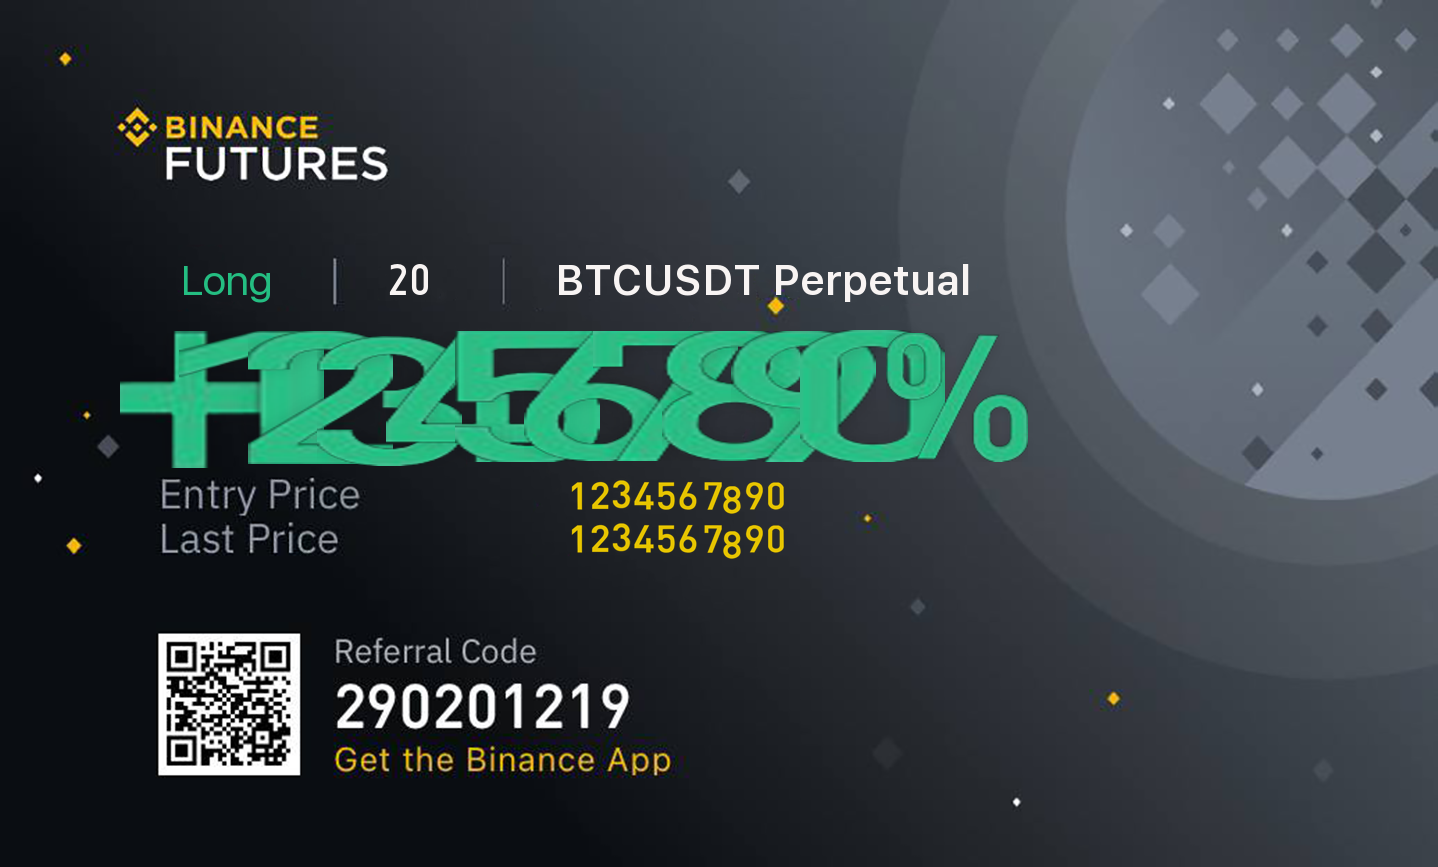
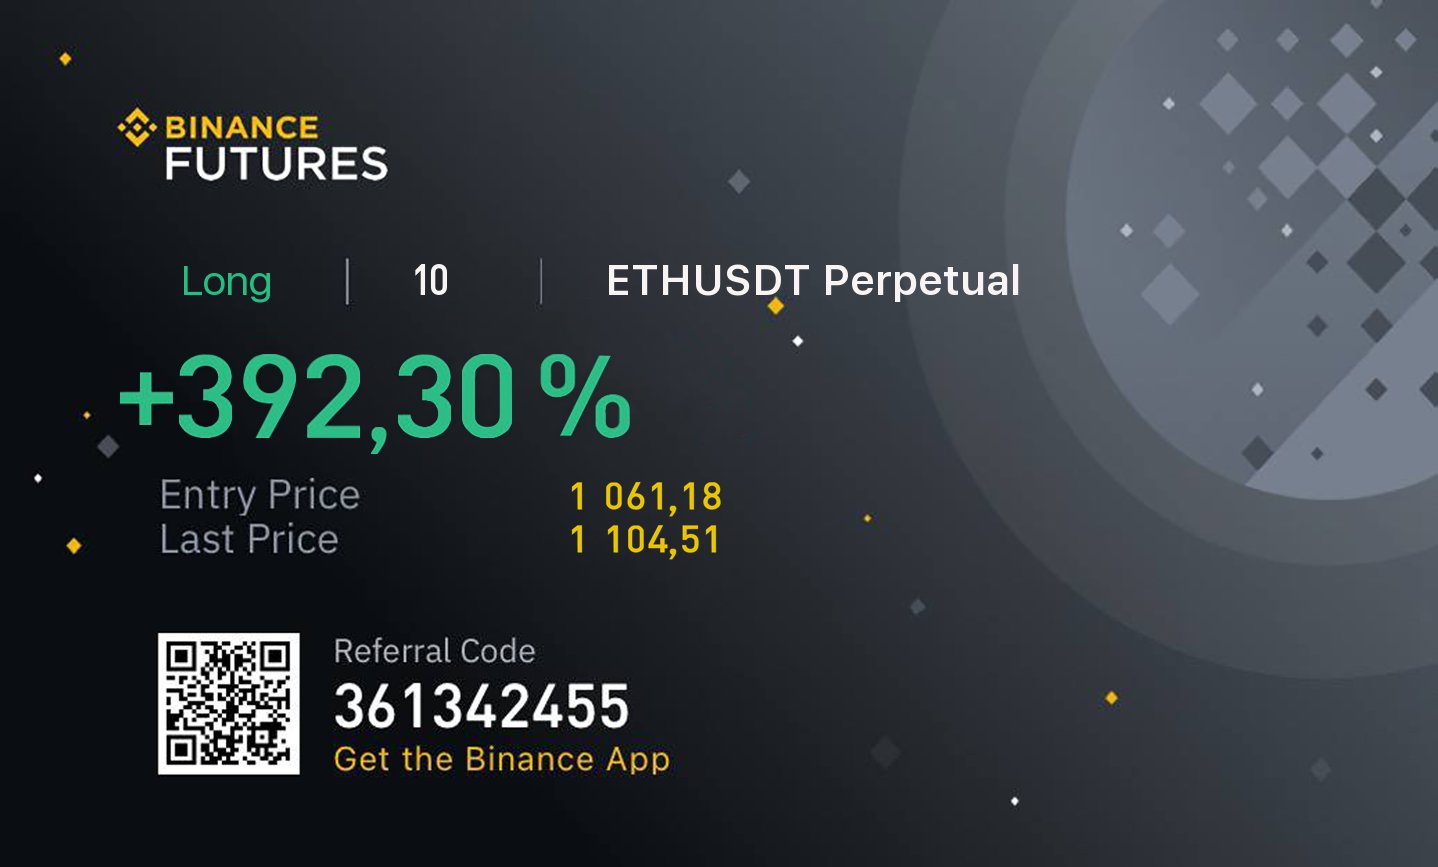
rge

diff --git a/tgbot/misc/generate.py b/tgbot/misc/generate.py
@@ -17,10 +17,10 @@ async def generate(user_data):
     x = user_data['lavarage'].replace("x", "")
     x = user_data['lavarage'].replace("X", "")
     if float(x) >= 100:
-        im = Image.open('tgbot/img/start2.png')
+        im = Image.open('tgbot/img/start.png')
         w = True
     else:
-        im = Image.open('tgbot/img/start1.png')
+        im = Image.open('tgbot/img/start.png')
         w = False
 
     if user_data['way'].lower() == 'long':
@@ -35,9 +35,9 @@ async def generate(user_data):
         lav = lav + 1
 
     if w == False:
-        lav_dist = 387
+        lav_dist = 413
     else:
-        lav_dist = 406
+        lav_dist = 408
 
     currency = user_data['currency'].upper() + ' ' + 'Perpetual'
 
@@ -62,13 +62,13 @@ async def generate(user_data):
     draw_cur = ImageDraw.Draw(im)
     if w == True:
         draw_cur.text(
-            (600, 255),
+            (605, 255),
             currency,
             font=font,
             fill='#f8f4f3')
     else:
         draw_cur.text(
-            (555, 255),
+            (605, 255),
             currency,
             font=font,
             fill='#f8f4f3')
@@ -88,34 +88,64 @@ async def generate(user_data):
     G9 = Image.open('tgbot/img/9.png')
 
     # if w == True:
-    Gper = Gper.resize((142, 129))
-    Gcom = Gcom.resize((145, 131))
-    Gplus = Gplus.resize((145, 137))
-    G0 = G0.resize((145, 132))
-    G1 = G1.resize((145, 130))
-    G2 = G2.resize((145, 133))
-    G3 = G3.resize((145, 130))
-    G4 = G4.resize((145, 131))
-    G5 = G5.resize((145, 131))
-    G6 = G6.resize((145, 130))
-    G7 = G7.resize((145, 130))
-    G8 = G8.resize((145, 130))
-    G9 = G9.resize((145, 131))
-    # else:
-    #     Gper = Gper.resize((150, 130))
-    #     Gcom = Gcom.resize((150, 130))
-    #     Gplus = Gplus.resize((150, 130))
-    #     G0 = G0.resize((150, 130))
-    #     G1 = G1.resize((150, 130))
-    #     G2 = G2.resize((150, 130))
-    #     G3 = G3.resize((150, 130))
-    #     G4 = G4.resize((150, 130))
-    #     G5 = G5.resize((150, 130))
-    #     G6 = G6.resize((150, 130))
-    #     G7 = G7.resize((150, 130))
-    #     G8 = G8.resize((150, 130))
-    #     G9 = G9.resize((150, 130))
+    Gper = Gper.resize((90, 84))
+    Gcom = Gcom.resize((16, 27))
+    Gplus = Gplus.resize((53, 53))
+    G0 = G0.resize((50, 84))
+    G1 = G1.resize((32, 84))
+    G2 = G2.resize((53, 84))
+    G3 = G3.resize((53, 84))
+    G4 = G4.resize((60, 84))
+    G5 = G5.resize((61, 84))
+    G6 = G6.resize((53, 84))
+    G7 = G7.resize((54, 84))
+    G8 = G8.resize((53, 84))
+    G9 = G9.resize((53, 84))
+    
 
+    
+
+    im.paste(Gplus, (120, 372), Gplus)
+    profit_dist = 179
+    for item in user_data['profit']:
+        if item == '0':
+            im.paste(G0, (profit_dist, 354), G0)
+            profit_dist += 61
+        elif item == '1':
+            im.paste(G1, (profit_dist, 354), G1)
+            profit_dist += 42
+        elif item == '2':
+            im.paste(G2, (profit_dist, 354), G2)
+            profit_dist += 64
+        elif item == '3':
+            im.paste(G3, (profit_dist, 354), G3)
+            profit_dist += 64
+        elif item == '4':
+            im.paste(G4, (profit_dist, 354), G4)
+            profit_dist += 71
+        elif item == '5':
+            im.paste(G5, (profit_dist, 354), G5)
+            profit_dist += 72
+        elif item == '6':
+            im.paste(G6, (profit_dist, 354), G6)
+            profit_dist += 64
+        elif item == '7':
+            im.paste(G7, (profit_dist, 354), G7)
+            profit_dist += 65
+        elif item == '8':
+            im.paste(G8, (profit_dist, 354), G8)
+            profit_dist += 64
+        elif item == '9':
+            im.paste(G9, (profit_dist, 354), G9)
+            profit_dist += 64
+        elif item == ',':
+            im.paste(Gcom, (profit_dist, 427), Gcom)
+            profit_dist += 27
+        elif item == ' ':
+            profit_dist += 32
+
+    im.paste(Gper, (profit_dist + 17, 354), Gper)
+    
     Yc = Image.open('tgbot/img/com.png')
     Y0 = Image.open('tgbot/img/00.png')
     Y1 = Image.open('tgbot/img/11.png')
@@ -139,51 +169,11 @@ async def generate(user_data):
     Y8 = Y8.resize((46, 42))
     Y9 = Y9.resize((46, 42))
 
-    im.paste(Gplus, (120, 331), Gplus)
-    profit_dist = 179
-    for item in user_data['profit']:
-        if item == '0':
-            im.paste(G0, (profit_dist, 330), G0)
-            profit_dist += 69
-        elif item == '1':
-            im.paste(G1, (profit_dist, 331), G1)
-            profit_dist += 69
-        elif item == '2':
-            im.paste(G2, (profit_dist, 331), G2)
-            profit_dist += 69
-        elif item == '3':
-            im.paste(G3, (profit_dist, 336), G3)
-            profit_dist += 69
-        elif item == '4':
-            im.paste(G4, (profit_dist, 331), G4)
-            profit_dist += 69
-        elif item == '5':
-            im.paste(G5, (profit_dist, 331), G5)
-            profit_dist += 69
-        elif item == '6':
-            im.paste(G6, (profit_dist, 331), G6)
-            profit_dist += 69
-        elif item == '7':
-            im.paste(G7, (profit_dist, 331), G7)
-            profit_dist += 69
-        elif item == '8':
-            im.paste(G8, (profit_dist, 331), G8)
-            profit_dist += 69
-        elif item == '9':
-            im.paste(G9, (profit_dist, 331), G9)
-            profit_dist += 69
-        elif item == ',':
-            im.paste(Gcom, (profit_dist-15, 376), Gcom)
-            profit_dist += 42
-        elif item == ' ':
-            profit_dist += 32
-
-    im.paste(Gper, (profit_dist + 17, 333), Gper)
-
     if w == True:
         price_dist = 537
     else:
         price_dist = 555
+        
     for item in user_data['fprice']:
         if item == '0':
             im.paste(Y0, (price_dist, 475), Y0)
@@ -195,7 +185,7 @@ async def generate(user_data):
             im.paste(Y2, (price_dist, 475), Y2)
             price_dist += 22
         elif item == '3':
-            im.paste(Y3, (price_dist, 475), Y3)
+            im.paste(Y3, (price_dist, 476), Y3)
             price_dist += 22
         elif item == '4':
             im.paste(Y4, (price_dist, 475), Y4)
@@ -207,10 +197,10 @@ async def generate(user_data):
             im.paste(Y6, (price_dist, 475), Y6)
             price_dist += 22
         elif item == '7':
-            im.paste(Y7, (price_dist, 475), Y7)
+            im.paste(Y7, (price_dist-5, 475), Y7)
             price_dist += 22
         elif item == '8':
-            im.paste(Y8, (price_dist, 479), Y8)
+            im.paste(Y8, (price_dist, 475), Y8)
             price_dist += 22
         elif item == '9':
             im.paste(Y9, (price_dist, 475), Y9)
@@ -236,7 +226,7 @@ async def generate(user_data):
             im.paste(Y2, (price_dist, 518), Y2)
             price_dist += 22
         elif item == '3':
-            im.paste(Y3, (price_dist, 518), Y3)
+            im.paste(Y3, (price_dist, 519), Y3)
             price_dist += 22
         elif item == '4':
             im.paste(Y4, (price_dist, 518), Y4)
@@ -248,16 +238,16 @@ async def generate(user_data):
             im.paste(Y6, (price_dist, 518), Y6)
             price_dist += 22
         elif item == '7':
-            im.paste(Y7, (price_dist, 518), Y7)
+            im.paste(Y7, (price_dist-5, 518), Y7)
             price_dist += 22
         elif item == '8':
-            im.paste(Y8, (price_dist, 524), Y8)
+            im.paste(Y8, (price_dist, 518), Y8)
             price_dist += 22
         elif item == '9':
             im.paste(Y9, (price_dist, 518), Y9)
             price_dist += 22
         elif item == ',':
-            im.paste(Yc, (price_dist-7, 527), Yc)
+            im.paste(Yc, (price_dist-7, 533), Yc)
             price_dist += 10
         elif item == ' ':
             price_dist += 14

diff --git a/tgbot/handlers/img_gen.py b/tgbot/handlers/img_gen.py
@@ -21,20 +21,20 @@ bot = Bot(token=config.tg_bot.token, parse_mode='HTML')
 
 @img_gen_router.message(commands=["make"])
 async def user_start(message: Message, state=FSMContext):
-    # await message.reply(make_mess['start'])
-    # await message.answer(make_mess['enter_way'])
-    # await state.set_state(makeImg.way)
-    ex_data = {
-        'way': 'long',
-        'lavarage' : '20',
-        'currency' : 'btcusdt',
-        'profit' : '1234567890',
-        'fprice' : '1234567890',
-        'sprice' : '1234567890',
-    }
-    await generate(ex_data)
-    photo = FSInputFile('tgbot/img/output.png')
-    await bot.send_photo(message.from_user.id, photo,)
+    await message.reply(make_mess['start'])
+    await message.answer(make_mess['enter_way'])
+    await state.set_state(makeImg.way)
+    # ex_data = {
+    #     'way': 'long',
+    #     'lavarage' : '10',
+    #     'currency' : 'ethusdt',
+    #     'profit' : '392,30',
+    #     'fprice' : '1 061,18',
+    #     'sprice' : '1 104,51',
+    # }
+    # await generate(ex_data)
+    # photo = FSInputFile('tgbot/img/output.png')
+    # await bot.send_photo(message.from_user.id, photo,)
 
 
 @img_gen_router.message(content_types=types.ContentType.TEXT, state=makeImg.way)
